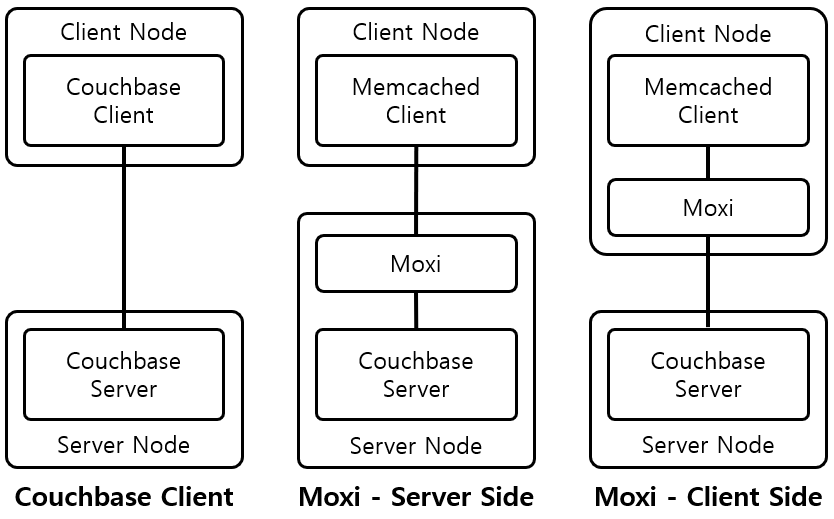
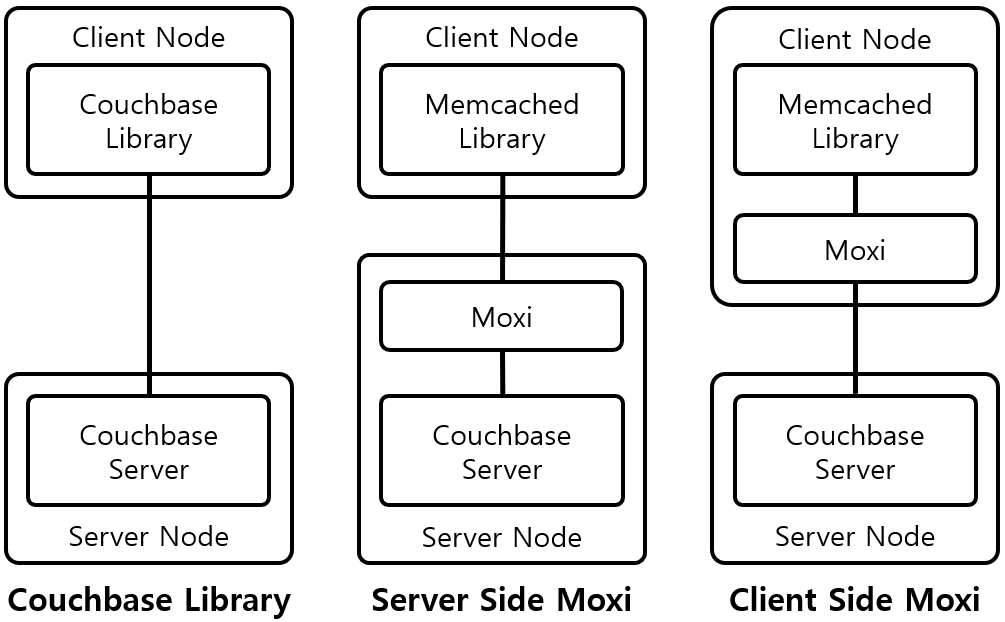
Update couchbase

diff --git a/_docs/theory_analysis/Couchbase.md b/_docs/theory_analysis/Couchbase.md
@@ -1,6 +1,6 @@
 ---
 title: Couchbase
-category:
+category: Theory, Analysis
 date: 2019-05-01T12:00:00Z
 lastmod: 2019-05-01T12:00:00Z
 comment: true
@@ -13,25 +13,17 @@ Couchbase를 분석한다.
 
 ![[그림 1] Document-Node Mapping]({{site.baseurl}}/images/theory_analysis/Couchbase/Document_Node_Mapping.PNG){: width="700px"}
 
-Couchbase는 JSON처럼 계층을 이루는 Key-Value Data를 저장하는 Document-Oriented DB이다. [그림 1]은 Couchbase가 관리하는 Document가 Node에 어떻게 Mapping 되는지를 나타내고 있다.
+Couchbase는 JSON처럼 계층을 이루는 Key-Value Data를 저장하는 Document-Oriented DB이다. [그림 1]은 Couchbase가 관리하는 Document가 Node에 어떻게 Mapping 되는지를 나타내고 있다. Couchbase의 Document는 **Bucket**이라고 불리는 Document Group에 위치한다. Document는 Document의 Key를 CRC32 Hashing 알고리즘을 통해서 **vBucket**이라고 불리는 Shard에 분리되어 저장된다. Couchbase는 vBucket 단위로 Replication, Rebalancing을 수생한다. vBucket은 각 Bucket마다 1024개씩 존재한다. vBucket은 다시 vBucket-Node Map을 통해서 Couchbase Cluster를 구성하고 있는 특정 Node로 Mapping된다.
 
-Couchbase의 가장 큰 특징은 Memory에서 구동되는 **Built-in Cache**이다. 대부분의 Data관련 동작은 Built-in Cache, 즉 Memory에서 수행되기 때문에 빠른 Data 처리가 가능하다. Built-in Cache에 저장되거나 변경된 Data는 Disk에 비동기적으로 기록될 수 있도록 설계되어 있다.
-
-NoSQL Document-Oriented DB이다.
-Built-in Cache가 존재하며 대부분의 동작은 Built-in Cache에서 이루어진다.
-Memcached와 100% 호환이 가능하다.
-
-Couchbase는 Bucket을 다시 vBucket이라고 불리는 Shard 단위로 쪼개어 Bucket을 관리한다.
-Couchbase User모르게 Couchbase는 vBucket 단위로 Replication, Rebalancing 등을 수행한다.
+Couchbase는 Memcached를 기반으로하는 **Built-in Cache**를 갖고 있다. 대부분의 Data관련 동작은 Built-in Cache, 즉 Memory에서 수행되기 때문에 빠른 Data 처리가 가능하다. Built-in Cache에 저장되거나 변경된 Data는 Disk에 비동기적으로 기록될 수 있도록 설계되어 있다. Couchbase는 Built-in Cache를 활용하여 기존의 Memcached를 Couchbase로 대체할 수 있도록 Memcached 호환 기능도 제공한다.
 
 #### 1.1. Bucket
 
-CouchBase는 Bucket이라는 Key-value Group 기능을 제공한다.
-하나의 CouchBase에 여러개의 Bucket이 존재할 수 있으며, Bucket마다 Resource 사용량을 제한할 수 있다.
+Bucket은 Couchbase에서 관리하는 Document Group이다. 하나의 CouchBase Cluster에 여러개의 Bucket이 존재할 수 있으며, 각 Bucket마다 Resource 사용량을 제한할 수 있다. Bucket에는 Couchbase, Ephemeral, Memcached 3가지 Type이 존재한다.
 
-* Couchbase - memory + disk를 이용하는 방식이다. Data는 Memory와 Disk에 저장되며, Memory가 가득찬 경우 Memory에서는 Data가 지워저도 Disk에는 Data가 남아있기 때문에 Data 손실이 발생하지 않는다. Replication, Rebalancing을 지원한다.
+* Couchbase - memory + disk를 이용하는 Bucket Type이다. Data는 Memory와 Disk에 저장되며, Memory가 가득찬 경우 Memory에 Data는 덮어씌워 진다. 하지만 Data는 Disk에 남아있기 때문에 Data의 손실로 이어지지는 않는다. Replication, Rebalancing을 지원한다.
 
-* Ephemeral - memory만 이용하는 방식이다. Data는 Memory에만 저장되며, Memory가 가득찬 경우 기존의 Data는 덮어씌워지기 때문에 Data 손실이 발생한다. Replication, Rebalancing을 지원한다.
+* Ephemeral - memory만 이용하는 Bucket Type이다. Data는 Memory에만 저장되며, Memory가 가득찬 경우 기존의 Data는 덮어씌워진다. 이는 곧 Data의 손실로 이어진다. Replication, Rebalancing을 지원한다.
 
 * Memcached - memory만 이용하는 방식이다. memcached처럼 Ketama consistent hashing을 이용하여 Data를 저장한다. Replication, Rebalancing을 지원하지 않는다.
 

diff --git a/_docs/theory_analysis/Couchbase_Memcached_호환.md b/_docs/theory_analysis/Couchbase_Memcached_호환.md
@@ -1,22 +1,27 @@
 ---
 title: Couchbase Memcached 호환
-category:
-date: 2019-05-01T12:00:00Z
-lastmod: 2019-05-01T12:00:00Z
+category: Theory, Analysis
+date: 2019-05-03T12:00:00Z
+lastmod: 2019-05-03T12:00:00Z
 comment: true
 adsense: true
 ---
 
-Couchbase를 분석한다.
+Couchbase의 Memcached 호환 기능을 분석한다.
 
-### 1. Couchbase
+### 1. Couchbase Memcached 호환
 
-![[그림 1] Document-Node Mapping]({{site.baseurl}}/images/theory_analysis/Couchbase_Memcached_Compatible/Couchbase_Memcached_Compatible.PNG){: width="600px"}
+![[그림 1] Couchbase와 Moxi를 이용한 Memcached 호환]({{site.baseurl}}/images/theory_analysis/Couchbase_Memcached_Compatible/Couchbase_Memcached_Compatible.PNG){: width="600px"}
 
-CouchBase Cluster는 Memcached Cluster가 제공하지 못하는 Data Replication 및 HA 기능을 제공한다.
-CouchBase Cluster는 Memcached Cluster가 제공하지 못하는 Data Rebalancing 기능을 제공한다.
+Couchbase는 기존의 Memcached를 Couchbase로 대체할 수 있도록 하는 Memcached 호환 기능을 제공한다. 기존의 Memcached Cluster를 Couchbase Cluster로 교체하면 Data 처리 성능은 떨어지지만, Memcached Cluster가 제공하지 못하는 Data Replication, HA, Data Rebalancing 기능을 이용할 수 있게 된다. 또한 Couchbase Type Bucket을 이용하면 Memcache에서 모든 메모리 공간을 이용할때 Data 덮어쓰기로 인해 발생하는 Data 손실도 방지할 수 있다.
 
-Memecached의 경우 할당받은 Memory 공간이 가득차 있을경우 기존의 Data를 지우고 새로운 Data를 쓰는 형태이지만, CouchBase는 Memory (Cache) 공간이 가득차 있을경우 기존의 Data를 Disk에 써서 보관하고, 새로운 Data를 Cache에 쓴다.
+[그림 1]은 Couchbase와 Moxi를 이용하여 기존의 Memcached를 대체하는 방법을 나타내고 있다. Couchbase Library, Server Side Moxi, Client Side Moxi 3가지 방법을 제공한다. **Moxi**는 Memcached Client와 Couchbase Server 사이에서 Memcached Procotol을 Couchbase Protocol로 변환하는 작업을 수행하는 Proxy 서버이다.
+
+* Couchbase Library - 기존의 Memecached Library를 Couchbase Library로 변경하는 방법이다. 성능 저하를 최소화 할 수 있지만 기존의 Application을 수정해야하는 단점을 갖고 있다.
+
+* Server Side Moxi - Server Node에 Moxi를 구동하여 Memcached Procotol을 Couchbase Protocol로 변경하는 방법이다. SPOF (Single point of failure) 문제로 인하여 현재는 권장하지 않는 방법이다.
+
+* Client Side Moxi - Client Node에 Moxi를 구동하여 Memcached Procotol을 Couchbase Protocol로 변경하는 방법이다. Memcached Library가 Server Node의 Memcacehd가 아닌 Client Node의 Moxi에 접속하도록 Appliation을 수정해야 한다.
 
 ### 2. 참조
 
